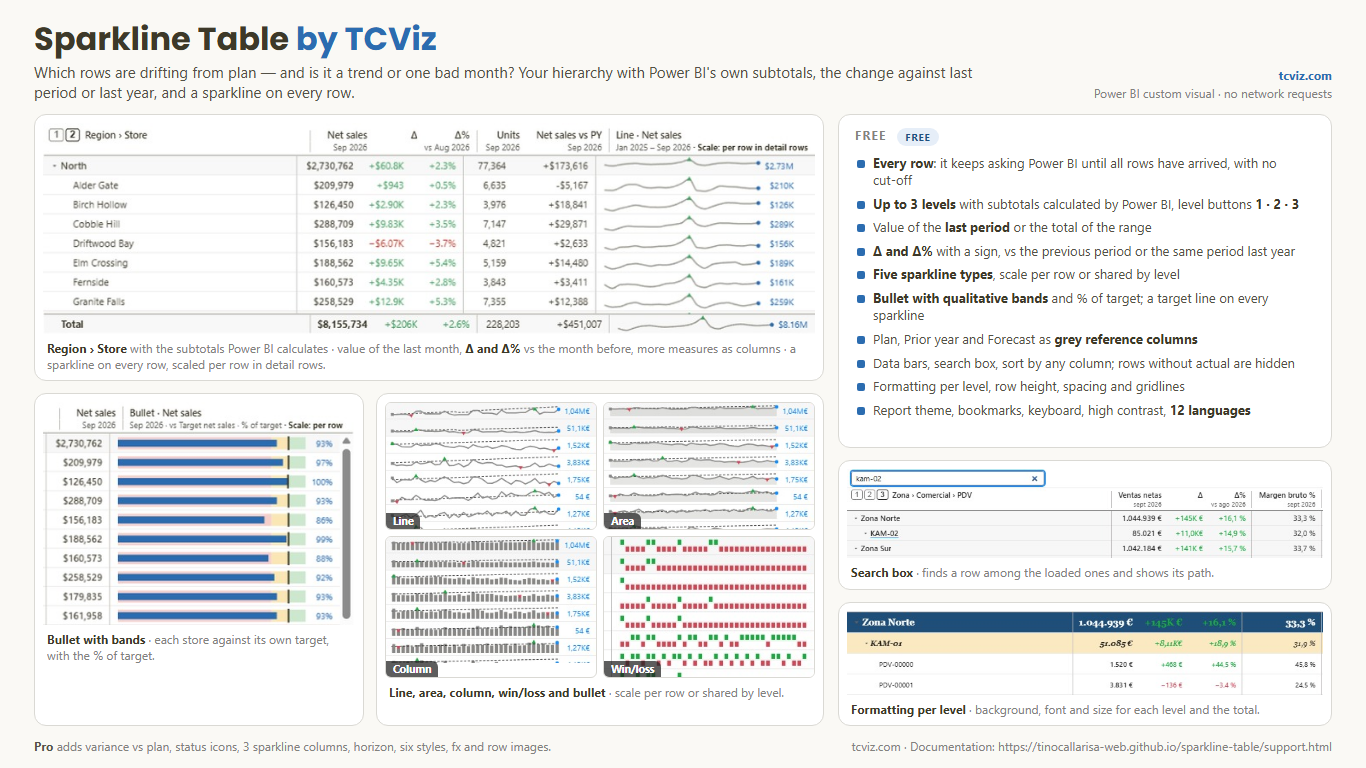
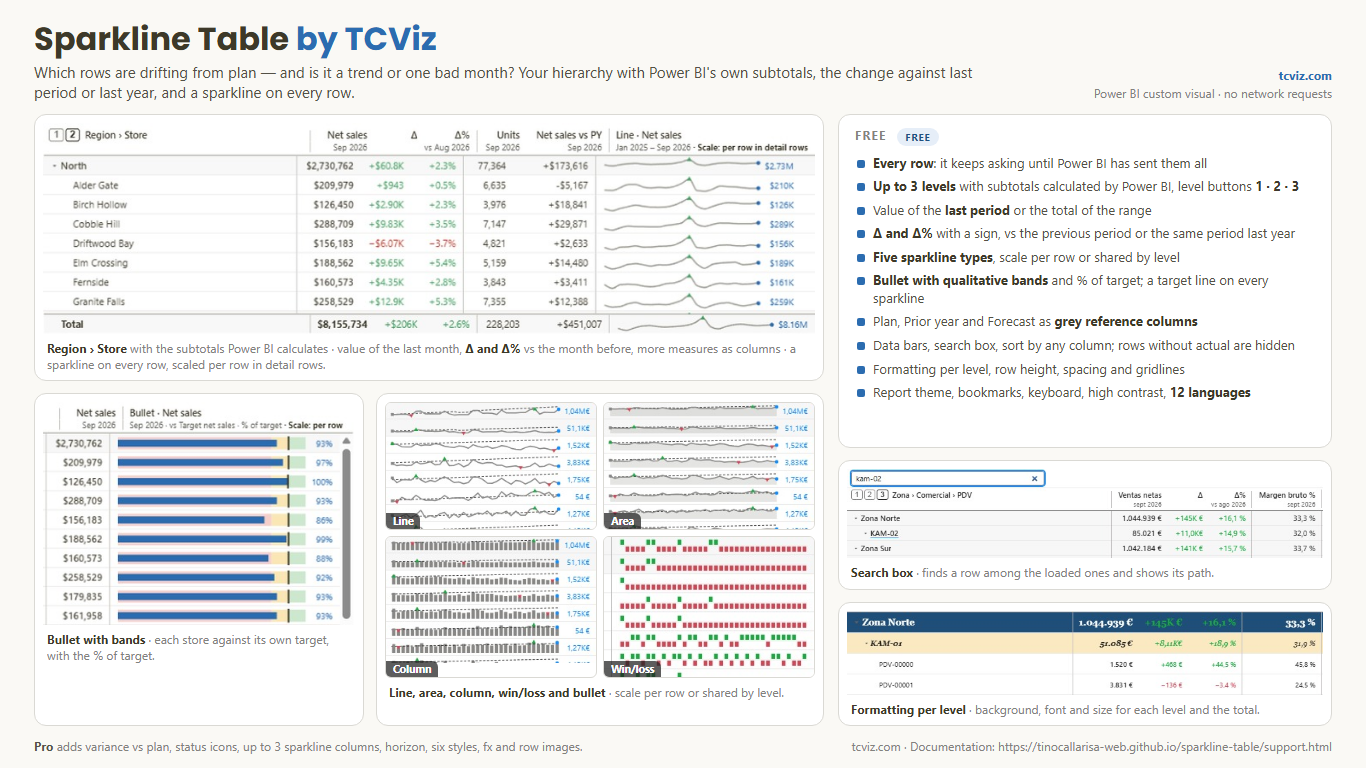
Docs: 'every row Power BI sends' en vez de 'no cut-off', enlace de vídeo en privacidad, hasta 3 columnas

Changed region(s): [[0.6149, 0.1875, 0.9531, 0.5625], [0.1845, 0.9688, 0.4305, 1.0]]

diff --git a/docs/infographic.html b/docs/infographic.html
@@ -50,7 +50,7 @@ ul.l strong,.card p strong{color:var(--t1)}
   </div>
   <div class="col">
     <div class="card" style="flex:1"><h3>Free <span class="chip free">FREE</span></h3><ul class="l">
-      <li><strong>Every row</strong>: it keeps asking Power BI until all rows have arrived, with no cut&#8209;off</li>
+      <li><strong>Every row</strong>: it keeps asking until Power BI has sent them all</li>
       <li><strong>Up to 3 levels</strong> with subtotals calculated by Power BI, level buttons <strong>1 · 2 · 3</strong></li>
       <li>Value of the <strong>last period</strong> or the total of the range</li>
       <li><strong>Δ and Δ%</strong> with a sign, vs the previous period or the same period last year</li>
@@ -64,5 +64,5 @@ ul.l strong,.card p strong{color:var(--t1)}
[1 lines of base64/hex data omitted]
   </div>
 </div>
-<div class="foot"><span><b>Pro</b> adds variance vs plan, status icons, 3 sparkline columns, horizon, six styles, fx and row images.</span><span>tcviz.com · Documentation: https://tinocallarisa-web.github.io/sparkline-table/support.html</span></div>
+<div class="foot"><span><b>Pro</b> adds variance vs plan, status icons, up to 3 sparkline columns, horizon, six styles, fx and row images.</span><span>tcviz.com · Documentation: https://tinocallarisa-web.github.io/sparkline-table/support.html</span></div>
 </div></body></html>

diff --git a/docs/changelog.html b/docs/changelog.html
@@ -145,7 +145,7 @@
     <div class="sub">Changelog</div>
   </div>
 </header>
-<div class="wrap prose"><h1>Changelog</h1><p>Sparkline Table by TCViz · current version 1.0.0.0</p><div class="card"><h3>1.0.0.0 — 2026-11-12</h3><ul><li>First release: a table for KPI tracking and actual against plan across many rows, with one sparkline per row over the period axis.</li><li>Row hierarchy up to 3 levels with subtotals calculated by Power BI, level buttons 1 · 2 · 3, expand and collapse (Alt + click for a whole level), grand total row.</li><li>Every row: rows arrive in segments of 1,000 and the visual asks for the next segment until all have arrived, with a &quot;Loading N of …&quot; note; no cut-off by the visual.</li><li>Value of the last period or total of the range; Δ and Δ% with a sign against the previous period or the same period last year; Δ% left empty on a zero or negative base and dimmed on small bases.</li><li>Five sparkline types (line, area, column, win/loss, bullet) with curve (linear, smooth, step), line colour (neutral, per row, by trend), markers and scale (shared by level, per row in detail rows, per row).</li><li>Bullet with qualitative bands and % of target; target line on every sparkline; data bars behind the value.</li><li>Plan, Prior year and Forecast shown as grey reference columns; repeated references below the level where a measure is defined shown as &quot;—&quot;; rows without actual hidden.</li><li>Search box, sort by any column with a click on its header, tooltips on the sparkline or the whole row.</li><li>Formatting per level (background, text, font, bold, italic), row height, density, column spacing and gridlines; Report theme (default) and Classic templates; setup guide and start screen.</li><li>Pro: variance against Plan, Prior year or Forecast (ΔPL, ΔPL% and a variance bar, per row and in subtotals), status icons by threshold with shape and colour, up to 3 sparkline columns, six collection styles (Boardroom, Ledger, Editorial, Signal, Aurora, Terrace), conditional formatting (fx) on the value, its background and the sparkline, row images from Base64 data URIs, and the horizon sparkline. Without a licence, Pro features are drawn under a &quot;Pro preview&quot; watermark while editing; reading view shows the free table.</li><li>Cross-filtering (subtotal rows included), multi-select, highlight, bookmarks, context menu, report page tooltips, keyboard navigation, screen-reader announcements and high contrast.</li><li>The number format of each measure, dynamic format strings included; format on the canvas; Format pane and texts in 12 languages.</li><li>No network requests; Pro licence through Microsoft AppSource.</li></ul></div></div>
+<div class="wrap prose"><h1>Changelog</h1><p>Sparkline Table by TCViz · current version 1.0.0.0</p><div class="card"><h3>1.0.0.0 — 2026-11-12</h3><ul><li>First release: a table for KPI tracking and actual against plan across many rows, with one sparkline per row over the period axis.</li><li>Row hierarchy up to 3 levels with subtotals calculated by Power BI, level buttons 1 · 2 · 3, expand and collapse (Alt + click for a whole level), grand total row.</li><li>Every row: rows arrive in segments of 1,000 and the visual asks for the next segment until Power BI has sent them all, with a &quot;Loading N of …&quot; note; if Power BI stops, a note says how many rows are shown.</li><li>Value of the last period or total of the range; Δ and Δ% with a sign against the previous period or the same period last year; Δ% left empty on a zero or negative base and dimmed on small bases.</li><li>Five sparkline types (line, area, column, win/loss, bullet) with curve (linear, smooth, step), line colour (neutral, per row, by trend), markers and scale (shared by level, per row in detail rows, per row).</li><li>Bullet with qualitative bands and % of target; target line on every sparkline; data bars behind the value.</li><li>Plan, Prior year and Forecast shown as grey reference columns; repeated references below the level where a measure is defined shown as &quot;—&quot;; rows without actual hidden.</li><li>Search box, sort by any column with a click on its header, tooltips on the sparkline or the whole row.</li><li>Formatting per level (background, text, font, bold, italic), row height, density, column spacing and gridlines; Report theme (default) and Classic templates; setup guide and start screen.</li><li>Pro: variance against Plan, Prior year or Forecast (ΔPL, ΔPL% and a variance bar, per row and in subtotals), status icons by threshold with shape and colour, up to 3 sparkline columns, six collection styles (Boardroom, Ledger, Editorial, Signal, Aurora, Terrace), conditional formatting (fx) on the value, its background and the sparkline, row images from Base64 data URIs, and the horizon sparkline. Without a licence, Pro features are drawn under a &quot;Pro preview&quot; watermark while editing; reading view shows the free table.</li><li>Cross-filtering (subtotal rows included), multi-select, highlight, bookmarks, context menu, report page tooltips, keyboard navigation, screen-reader announcements and high contrast.</li><li>The number format of each measure, dynamic format strings included; format on the canvas; Format pane and texts in 12 languages.</li><li>No network requests; Pro licence through Microsoft AppSource.</li></ul></div></div>
 <footer>
   <div style="margin-bottom:10px;">
     <a href="https://tinocallarisa-web.github.io/sparkline-table/support.html">Documentation</a>

diff --git a/docs/support.html b/docs/support.html
@@ -237,7 +237,7 @@ a colour. The sparkline shows the whole range, so a row that is down this month 
 a note says how many are shown. Up to 400 periods are drawn. The limits are the same in the free version and in Pro.</p>
 
 <h2 id="freepro">Free and Pro</h2>
-<table><thead><tr><th>Capability</th><th>Free</th><th>Pro</th></tr></thead><tbody><tr><td>Every row: Power BI sends rows in segments of 1,000 and the visual asks for the next until all have arrived — no cut-off by the visual</td><td>✓</td><td>✓</td></tr><tr><td>Row hierarchy up to 3 levels with subtotals calculated by Power BI, level buttons 1 · 2 · 3, expand and collapse</td><td>✓</td><td>✓</td></tr><tr><td>Value of the last period or total of the range; Δ and Δ% against the previous period or the same period last year</td><td>✓</td><td>✓</td></tr><tr><td>Five sparkline types — line, area, column, win/loss, bullet — with curve, line colour, markers and scale (shared by level, per row in detail rows, per row)</td><td>✓</td><td>✓</td></tr><tr><td>Bullet with qualitative bands and % of target; target line on every sparkline</td><td>✓</td><td>✓</td></tr><tr><td>Data bars behind the value, search box, rows without actual hidden, repeated references hidden</td><td>✓</td><td>✓</td></tr><tr><td>Grey reference columns for Plan, Prior year and Forecast</td><td>✓</td><td>✓</td></tr><tr><td>Formatting per level, row height, column spacing, gridlines; Report theme and Classic templates</td><td>✓</td><td>✓</td></tr><tr><td>Selection, highlight, keyboard, context menu, bookmarks, format on the canvas, high contrast, 12 languages</td><td>✓</td><td>✓</td></tr><tr><td>Number format of each measure, dynamic format strings included; no network access</td><td>✓</td><td>✓</td></tr><tr><td>Variance against Plan, Prior year or Forecast: ΔPL, ΔPL% and a variance bar, per row and in subtotals</td><td>—</td><td>✓</td></tr><tr><td>Status icons by threshold, with shape and colour</td><td>—</td><td>✓</td></tr><tr><td>Up to 3 sparkline columns, each with its own measure, type, curve, scale and colour</td><td>—</td><td>✓</td></tr><tr><td>Six collection styles: Boardroom, Ledger, Editorial, Signal, Aurora, Terrace</td><td>—</td><td>✓</td></tr><tr><td>Conditional formatting (fx) on the value colour, the value background and the sparkline colour</td><td>—</td><td>✓</td></tr><tr><td>Image at the start of each row (Base64 data URI)</td><td>—</td><td>✓</td></tr><tr><td>Horizon sparkline</td><td>—</td><td>✓</td></tr></tbody></table>
+<table><thead><tr><th>Capability</th><th>Free</th><th>Pro</th></tr></thead><tbody><tr><td>Every row Power BI sends: rows arrive in segments of 1,000 and the visual asks for the next until Power BI has sent them all; if Power BI stops, a note says how many are shown</td><td>✓</td><td>✓</td></tr><tr><td>Row hierarchy up to 3 levels with subtotals calculated by Power BI, level buttons 1 · 2 · 3, expand and collapse</td><td>✓</td><td>✓</td></tr><tr><td>Value of the last period or total of the range; Δ and Δ% against the previous period or the same period last year</td><td>✓</td><td>✓</td></tr><tr><td>Five sparkline types — line, area, column, win/loss, bullet — with curve, line colour, markers and scale (shared by level, per row in detail rows, per row)</td><td>✓</td><td>✓</td></tr><tr><td>Bullet with qualitative bands and % of target; target line on every sparkline</td><td>✓</td><td>✓</td></tr><tr><td>Data bars behind the value, search box, rows without actual hidden, repeated references hidden</td><td>✓</td><td>✓</td></tr><tr><td>Grey reference columns for Plan, Prior year and Forecast</td><td>✓</td><td>✓</td></tr><tr><td>Formatting per level, row height, column spacing, gridlines; Report theme and Classic templates</td><td>✓</td><td>✓</td></tr><tr><td>Selection, highlight, keyboard, context menu, bookmarks, format on the canvas, high contrast, 12 languages</td><td>✓</td><td>✓</td></tr><tr><td>Number format of each measure, dynamic format strings included; no network access</td><td>✓</td><td>✓</td></tr><tr><td>Variance against Plan, Prior year or Forecast: ΔPL, ΔPL% and a variance bar, per row and in subtotals</td><td>—</td><td>✓</td></tr><tr><td>Status icons by threshold, with shape and colour</td><td>—</td><td>✓</td></tr><tr><td>Up to 3 sparkline columns, each with its own measure, type, curve, scale and colour</td><td>—</td><td>✓</td></tr><tr><td>Six collection styles: Boardroom, Ledger, Editorial, Signal, Aurora, Terrace</td><td>—</td><td>✓</td></tr><tr><td>Conditional formatting (fx) on the value colour, the value background and the sparkline colour</td><td>—</td><td>✓</td></tr><tr><td>Image at the start of each row (Base64 data URI)</td><td>—</td><td>✓</td></tr><tr><td>Horizon sparkline</td><td>—</td><td>✓</td></tr></tbody></table>
 <p>Turn on a Pro capability without a licence while editing and it is drawn working on your own data under a “Pro preview” watermark that
 names it. Reading view shows the free table. Pro is sold per user on Microsoft AppSource.</p>
 

diff --git a/docs/terms.html b/docs/terms.html
@@ -153,7 +153,7 @@
 <h2>2. License grant</h2>
 <p>TCViz grants you a non-exclusive, non-transferable, revocable license to use the Visual within Microsoft Power BI, subject to these Terms
 and any applicable Microsoft AppSource subscription terms.</p>
-<p><strong>Free tier:</strong> available to all users at no cost. Includes: every row, loaded in segments with no cut-off by the visual; row hierarchy up to 3 levels with subtotals calculated by Power BI, level buttons 1 · 2 · 3, expand and collapse; value of the last period or total of the range; Δ and Δ% against the previous period or the same period last year; five sparkline types — line, area, column, win/loss, bullet — with curve, line colour, markers and scale (shared by level, per row in detail rows, per row); bullet with qualitative bands and % of target; target line on every sparkline; data bars behind the value, search box, rows without actual hidden, repeated references hidden; grey reference columns for Plan, Prior year and Forecast; formatting per level, row height, column spacing, gridlines; Report theme and Classic templates; selection, highlight, keyboard, context menu, bookmarks, format on the canvas, high contrast, 12 languages; number format of each measure, dynamic format strings included; no network access.</p>
+<p><strong>Free tier:</strong> available to all users at no cost. Includes: every row Power BI sends, loaded in segments of 1,000; row hierarchy up to 3 levels with subtotals calculated by Power BI, level buttons 1 · 2 · 3, expand and collapse; value of the last period or total of the range; Δ and Δ% against the previous period or the same period last year; five sparkline types — line, area, column, win/loss, bullet — with curve, line colour, markers and scale (shared by level, per row in detail rows, per row); bullet with qualitative bands and % of target; target line on every sparkline; data bars behind the value, search box, rows without actual hidden, repeated references hidden; grey reference columns for Plan, Prior year and Forecast; formatting per level, row height, column spacing, gridlines; Report theme and Classic templates; selection, highlight, keyboard, context menu, bookmarks, format on the canvas, high contrast, 12 languages; number format of each measure, dynamic format strings included; no network access.</p>
 <p><strong>Pro tier:</strong> available through a Microsoft AppSource subscription, licensed per user. Adds: variance against Plan, Prior year or Forecast: ΔPL, ΔPL% and a variance bar, per row and in subtotals; status icons by threshold, with shape and colour; up to 3 sparkline columns, each with its own measure, type, curve, scale and colour; six collection styles: Boardroom, Ledger, Editorial, Signal, Aurora, Terrace; conditional formatting (fx) on the value colour, the value background and the sparkline colour; image at the start of each row (Base64 data URI); horizon sparkline.
 Without an active licence, Pro features are shown in edit mode only, as a preview marked with a watermark; reading view shows the free result.
 Field and row limits are the same in both tiers.</p>

diff --git a/docs/APPSOURCE-DESCRIPTION.html b/docs/APPSOURCE-DESCRIPTION.html
@@ -3,7 +3,7 @@
 <p style="color:#3E9C5B;margin:16px 0 4px"><b>✅ FREE: A COMPLETE TRACKING TABLE</b></p>
 <div style="background:#F2F8F3;border:1px solid #CFE6D4;border-radius:8px;padding:8px 14px;margin:6px 0">
 <ul>
-<li>Every row: rows arrive in segments and the visual keeps asking until all have arrived, with no cut-off</li>
+<li>Every row: rows arrive in segments of 1,000 and the visual keeps asking until Power BI has sent them all; if Power BI stops, a note says how many are shown</li>
 <li>Up to 3 levels with subtotals calculated by Power BI, level buttons 1 · 2 · 3, expand and collapse</li>
 <li>Value of the last period or total of the range; Δ and Δ% with a sign, against the previous period or the same period last year</li>
 <li>Five sparkline types: line, area, column, win/loss and bullet, with curve, line colour, markers and a scale shared by level or per row</li>
@@ -26,7 +26,7 @@
 </ul>
 </div>
 <p style="color:#1F4E80;margin:16px 0 4px"><b>⚖ FREE AND PRO</b></p>
-<p>The free version loads every row and gives a complete, correct table; field and row limits are the same in both. Pro adds the variance and the status. Turn on a Pro feature while editing without a licence and it is drawn working on your own data under a "Pro preview" watermark; report readers without a licence see the free table.</p>
+<p>The free version loads every row and gives a complete, correct table; field and row limits are the same in both. Pro adds variance, status icons, extra sparkline columns, six styles, fx, row images and horizon. Adding Plan or Prior year turns on the variance preview; switch the Variance card off to keep only the grey reference columns. Turn on a Pro feature while editing without a licence and it is drawn working on your own data under a "Pro preview" watermark; report readers without a licence see the free table.</p>
 <p style="color:#1F4E80;margin:16px 0 4px"><b>🔗 WORKS LIKE A NATIVE VISUAL</b></p>
 <ul>
 <li>Click a row or a subtotal to filter the page, Ctrl+click for several, highlight, bookmarks, context menu, report page tooltips</li>

diff --git a/docs/APPSOURCE-DESCRIPTION.preview.html b/docs/APPSOURCE-DESCRIPTION.preview.html
@@ -3,7 +3,7 @@
 <p style="color:#3E9C5B;margin:16px 0 4px"><b>✅ FREE: A COMPLETE TRACKING TABLE</b></p>
 <div style="background:#F2F8F3;border:1px solid #CFE6D4;border-radius:8px;padding:8px 14px;margin:6px 0">
 <ul>
-<li>Every row: rows arrive in segments and the visual keeps asking until all have arrived, with no cut-off</li>
+<li>Every row: rows arrive in segments of 1,000 and the visual keeps asking until Power BI has sent them all; if Power BI stops, a note says how many are shown</li>
 <li>Up to 3 levels with subtotals calculated by Power BI, level buttons 1 · 2 · 3, expand and collapse</li>
 <li>Value of the last period or total of the range; Δ and Δ% with a sign, against the previous period or the same period last year</li>
 <li>Five sparkline types: line, area, column, win/loss and bullet, with curve, line colour, markers and a scale shared by level or per row</li>
@@ -26,7 +26,7 @@
 </ul>
 </div>
 <p style="color:#1F4E80;margin:16px 0 4px"><b>⚖ FREE AND PRO</b></p>
-<p>The free version loads every row and gives a complete, correct table; field and row limits are the same in both. Pro adds the variance and the status. Turn on a Pro feature while editing without a licence and it is drawn working on your own data under a "Pro preview" watermark; report readers without a licence see the free table.</p>
+<p>The free version loads every row and gives a complete, correct table; field and row limits are the same in both. Pro adds variance, status icons, extra sparkline columns, six styles, fx, row images and horizon. Adding Plan or Prior year turns on the variance preview; switch the Variance card off to keep only the grey reference columns. Turn on a Pro feature while editing without a licence and it is drawn working on your own data under a "Pro preview" watermark; report readers without a licence see the free table.</p>
 <p style="color:#1F4E80;margin:16px 0 4px"><b>🔗 WORKS LIKE A NATIVE VISUAL</b></p>
 <ul>
 <li>Click a row or a subtotal to filter the page, Ctrl+click for several, highlight, bookmarks, context menu, report page tooltips</li>

diff --git a/docs/privacy.html b/docs/privacy.html
@@ -157,7 +157,7 @@ happens inside Power BI, on the data of your report. Subtotals are calculated by
 <p>The visual declares <strong>no network privileges</strong> (<code>"privileges": []</code>), so Power BI does not let it make any web request.
 Everything it draws, including the start-screen icon, is bundled inside the visual. Row images are drawn only from Base64 data embedded in your
 model; a web address is never loaded.</p>
-<p>The <em>Guide</em> and <em>Product page</em> links on the start screen ask Power BI to open those pages in your browser, only when you click
+<p>The <em>Guide</em>, <em>Product page</em> and <em>Video</em> (YouTube) links on the start screen ask Power BI to open those pages in your browser, only when you click
 them (Power BI Desktop asks first). The visual sends nothing.</p>
 <h2>4. Cookies and storage</h2>
 <p>No cookies and no browser storage. Formatting settings and the sort you choose while editing are saved in your report by Power BI, like those of any visual.</p>

diff --git a/tools/gen_docs.py b/tools/gen_docs.py
@@ -83,7 +83,7 @@ FIELDS = [
 ]
 
 FREE_PRO = [
-    ("Every row: Power BI sends rows in segments of 1,000 and the visual asks for the next until all have arrived — no cut-off by the visual", "✓", "✓"),
+    ("Every row Power BI sends: rows arrive in segments of 1,000 and the visual asks for the next until Power BI has sent them all; if Power BI stops, a note says how many are shown", "✓", "✓"),
     ("Row hierarchy up to 3 levels with subtotals calculated by Power BI, level buttons 1 · 2 · 3, expand and collapse", "✓", "✓"),
     ("Value of the last period or total of the range; Δ and Δ% against the previous period or the same period last year", "✓", "✓"),
     ("Five sparkline types — line, area, column, win/loss, bullet — with curve, line colour, markers and scale (shared by level, per row in detail rows, per row)", "✓", "✓"),
@@ -406,7 +406,7 @@ happens inside Power BI, on the data of your report. Subtotals are calculated by
 <p>The visual declares <strong>no network privileges</strong> (<code>"privileges": []</code>), so Power BI does not let it make any web request.
 Everything it draws, including the start-screen icon, is bundled inside the visual. Row images are drawn only from Base64 data embedded in your
 model; a web address is never loaded.</p>
-<p>The <em>Guide</em> and <em>Product page</em> links on the start screen ask Power BI to open those pages in your browser, only when you click
+<p>The <em>Guide</em>, <em>Product page</em> and <em>Video</em> (YouTube) links on the start screen ask Power BI to open those pages in your browser, only when you click
 them (Power BI Desktop asks first). The visual sends nothing.</p>
 <h2>4. Cookies and storage</h2>
 <p>No cookies and no browser storage. Formatting settings and the sort you choose while editing are saved in your report by Power BI, like those of any visual.</p>
@@ -425,8 +425,8 @@ no data from this check. See the <a href="https://privacy.microsoft.com/privacys
 def terms():
     def plain(t):
         return html.unescape(re.sub(r"<[^>]+>", "", t))
-    corto = {"Every row: Power BI sends rows in segments of 1,000 and the visual asks for the next until all have arrived — no cut-off by the visual":
-             "every row, loaded in segments with no cut-off by the visual"}
+    corto = {"Every row Power BI sends: rows arrive in segments of 1,000 and the visual asks for the next until Power BI has sent them all; if Power BI stops, a note says how many are shown":
+             "every row Power BI sends, loaded in segments of 1,000"}
     free = "; ".join(plain(corto.get(r[0], r[0][0].lower() + r[0][1:])) for r in FREE_PRO if r[1] == "✓")
     pro = "; ".join(plain(r[0][0].lower() + r[0][1:]) for r in FREE_PRO if r[1] == "—")
     body = f'''<div class="wrap prose">

diff --git a/tools/gen_infographic.py b/tools/gen_infographic.py
@@ -127,7 +127,7 @@ def general():
   </div>
   <div class="col">
     <div class="card" style="flex:1"><h3>Free <span class="chip free">FREE</span></h3><ul class="l">
-      <li><strong>Every row</strong>: it keeps asking Power BI until all rows have arrived, with no cut&#8209;off</li>
+      <li><strong>Every row</strong>: it keeps asking until Power BI has sent them all</li>
       <li><strong>Up to 3 levels</strong> with subtotals calculated by Power BI, level buttons <strong>1 · 2 · 3</strong></li>
       <li>Value of the <strong>last period</strong> or the total of the range</li>
       <li><strong>Δ and Δ%</strong> with a sign, vs the previous period or the same period last year</li>
@@ -141,7 +141,7 @@ def general():
     <div class="shot"><img src="{data_uri('levels.png', 1000)}" alt=""><div class="cap"><b>Formatting per level</b> · background, font and size for each level and the total.</div></div>
   </div>
 </div>
-{FOOT.format(izq="<b>Pro</b> adds variance vs plan, status icons, 3 sparkline columns, horizon, six styles, fx and row images.")}
+{FOOT.format(izq="<b>Pro</b> adds variance vs plan, status icons, up to 3 sparkline columns, horizon, six styles, fx and row images.")}
 """
     return page("Sparkline Table by TCViz — Visual Guide", body)
 

diff --git a/docs/APPSOURCE-LISTING.md b/docs/APPSOURCE-LISTING.md
@@ -63,7 +63,7 @@ The monthly review has fifty stores, twelve sales reps or two hundred products o
 Sparkline Table by TCViz puts your hierarchy in rows with the subtotals Power BI calculates, the value of the last period, the change against the previous period or last year, and a sparkline on every row. Plan and prior year sit next to the actual, so you read the gap and its history on the same line.
 
 FREE: A COMPLETE TRACKING TABLE
-• Every row: rows arrive in segments and the visual keeps asking until all have arrived, with no cut-off
+• Every row: rows arrive in segments of 1,000 and the visual keeps asking until Power BI has sent them all; if Power BI stops, a note says how many are shown
 • Up to 3 levels with subtotals calculated by Power BI, level buttons 1 · 2 · 3, expand and collapse
 • Value of the last period or total of the range; Δ and Δ% with a sign, against the previous period or the same period last year
 • Five sparkline types: line, area, column, win/loss and bullet, with curve, line colour, markers and a scale shared by level or per row
@@ -82,7 +82,7 @@ PRO: THE CONTROL READING
 • An image at the start of each row (flags, logos) and the horizon sparkline
 
 FREE AND PRO
-The free version loads every row and gives a complete, correct table; field and row limits are the same in both. Pro adds the variance and the status. Turn on a Pro feature while editing without a licence and it is drawn working on your own data under a "Pro preview" watermark; report readers without a licence see the free table.
+The free version loads every row and gives a complete, correct table; field and row limits are the same in both. Pro adds variance, status icons, extra sparkline columns, six styles, fx, row images and horizon. Adding Plan or Prior year turns on the variance preview; switch the Variance card off to keep only the grey reference columns. Turn on a Pro feature while editing without a licence and it is drawn working on your own data under a "Pro preview" watermark; report readers without a licence see the free table.
 
 WORKS LIKE A NATIVE VISUAL
 • Click a row or a subtotal to filter the page, Ctrl+click for several, highlight, bookmarks, context menu, report page tooltips
@@ -153,7 +153,7 @@ Screenshots are 1366x768, in this order. The infographics are regenerated with `
 |---|---|---|
 | Logo | `assets/icon_300x300.png` | Product icon, 300x300 |
 | 1 | `assets/infographic.png` | Free: "Which rows are drifting from plan — and is it a trend or one bad month?" Region › Store with Power BI subtotals, Δ/Δ%, sparkline per row; bullet with bands; the five sparkline types; search box; formatting per level; list of everything that is free |
-| 2 | `assets/infographic-pro.png` | Pro: variance vs Plan / Prior year / Forecast (ΔPL, bar, ΔPL%) and status; 3 sparkline columns; horizon; row images; fx; the six styles; Pro preview while editing, free table for readers without a licence |
+| 2 | `assets/infographic-pro.png` | Pro: variance vs Plan / Prior year / Forecast (ΔPL, bar, ΔPL%) and status; up to 3 sparkline columns; horizon; row images; fx; the six styles; Pro preview while editing, free table for readers without a licence |
 | 3 | `assets/Image_1.png` | Scorecard by region in Power BI Desktop: variance to plan, status, sparklines; card and table filtered by the selection |
 | 4 | `assets/Image_2.png` | Sparkline types: line, column, win/loss in three columns; area and horizon in a second copy |
 | 5 | `assets/Image_3.png` | Bullet with qualitative bands and % of target, each store against its own target |

diff --git a/docs/WEBSITE-PRODUCT-PAGE.md b/docs/WEBSITE-PRODUCT-PAGE.md
@@ -20,7 +20,7 @@ your hierarchy in rows with the subtotals Power BI calculates, the value of the 
 previous period or last year, and a sparkline on every row.
 
 ### Key highlights
-- **Every row, free.** Rows arrive in segments and the visual keeps asking until all have arrived: no cut-off.
+- **Every row, free.** Rows arrive in segments of 1,000 and the visual keeps asking until Power BI has sent them all.
 - **Your hierarchy, Power BI's subtotals.** Up to 3 levels, level buttons 1 · 2 · 3, expand and collapse; a region's
   margin is the region's margin, not the sum of its stores.
 - **The history on the same line.** Line, area, column, win/loss or bullet with bands, with a scale shared by level or
@@ -36,7 +36,7 @@ Video: https://www.youtube.com/watch?v=qrqWbeswF4Y
 ## TAB 2: FEATURES
 
 ### Free: a complete tracking table
-- Every row, loaded in segments of 1,000 with a "Loading N of …" note; no cut-off by the visual
+- Every row, loaded in segments of 1,000 with a "Loading N of …" note, until Power BI has sent them all
 - Row hierarchy up to 3 levels with subtotals calculated by Power BI, level buttons 1 · 2 · 3, expand and collapse, grand total
 - Value of the last period or total of the range; Δ and Δ% with a sign, against the previous period or the same period last year
 - Five sparkline types: line, area, column, win/loss, bullet; curve (linear, smooth, step), line colour (neutral, per row, by trend), markers
@@ -99,7 +99,7 @@ The visual shows "—" below that level. To make the measure stop there:
 - **Stores against plan** — which stores are off plan, and since when.
 - **Sales reps month by month** — sort by Δ% to put the biggest drops first.
 - **Products against a target** — bullet with bands, each row against its own target.
-- **Plants and KPIs with status (Pro)** — ● ▲ ◆ by your thresholds and three sparkline columns side by side.
+- **Plants and KPIs with status (Pro)** — ● ▲ ◆ by your thresholds and up to three sparkline columns side by side.
 - **Long lists** — thousands of rows, a search box, smooth scrolling.
 
 ---

diff --git a/CHANGELOG.md b/CHANGELOG.md
@@ -6,7 +6,7 @@ All notable changes to Sparkline Table by TCViz. Power BI four-part version numb
 
 - First release: a table for KPI tracking and actual against plan across many rows, with one sparkline per row over the period axis.
 - Row hierarchy up to 3 levels with subtotals calculated by Power BI, level buttons 1 · 2 · 3, expand and collapse (Alt + click for a whole level), grand total row.
-- Every row: rows arrive in segments of 1,000 and the visual asks for the next segment until all have arrived, with a "Loading N of …" note; no cut-off by the visual.
+- Every row: rows arrive in segments of 1,000 and the visual asks for the next segment until Power BI has sent them all, with a "Loading N of …" note; if Power BI stops, a note says how many rows are shown.
 - Value of the last period or total of the range; Δ and Δ% with a sign against the previous period or the same period last year; Δ% left empty on a zero or negative base and dimmed on small bases.
 - Five sparkline types (line, area, column, win/loss, bullet) with curve (linear, smooth, step), line colour (neutral, per row, by trend), markers and scale (shared by level, per row in detail rows, per row).
 - Bullet with qualitative bands and % of target; target line on every sparkline; data bars behind the value.
